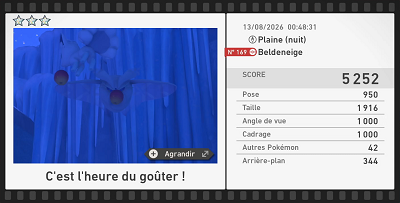
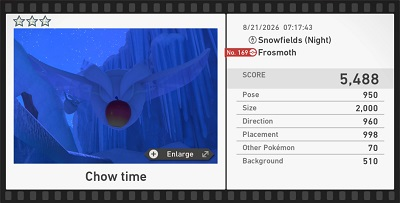
コアルヒー4の動画追加

diff --git a/src/data/pokemon/ducklett.ts b/src/data/pokemon/ducklett.ts
@@ -88,6 +88,11 @@ export default {
           },
           videos: [
             {
+              name: "かける",
+              score: "5603",
+              url: "https://www.youtube.com/watch?v=no3sCcaKp34",
+            },
+            {
               name: "Whom Snaps",
               score: "5593",
               url: "https://www.youtube.com/watch?v=YrrVmRUa-js",
@@ -95,9 +100,9 @@ export default {
           ],
           steps: [
             { type: "text", content: "道中をターボで進み、丘を越えると遠くに四本の細い木が見えるので、ポインタの位置が右から1番目と2番目の木の間あたりにきたらポーズバッファを開始し、ポインタが2番目と3番目あたりに到達するまで続ける。これにより飛行中のコアルヒーの角度が変化する。" },
-            { type: "text", content: "右ボタンで視点を変更したら、湖にある三角の岩の頂点とポインタの縦軸が重なったらターボをやめ、カメラを左上に移動させてからズームし、リンゴで奥のコアルヒーを右へ誘導する。" },
+            { type: "text", content: "右ボタンで視点を変更したら、湖にある岩とポインタの縦軸が重なったタイミングでターボをやめる。カメラを左上に移動させてからズームし、リンゴで奥のコアルヒー2匹を右へ誘導する。" },
             { type: "text", content: "巣の頂点にリンゴをぶつけてビッパを登場させ、さらに右上にリンゴを投げることで水中からコイキングを登場させる。これらで他のポケモン点を加算できる。" },
-            { type: "text", content: "橋に組み込まれている右に突き出た太い枝の上あたりにカメラをあわせ、枠内にコアルヒーの翼が完全に収まったあたりでズームアウトを開始。コアルヒーの顔がポインタに到達したら撮影する。" },
+            { type: "text", content: "橋に組み込まれている右に突き出た太い枝の上あたりにカメラをあわせ、コアルヒーやビッパを目安にしてズームアウトを開始。コアルヒーの顔がポインタに到達したら撮影する。" },
             { type: "text", content: "※高速で動いているため、本来の位置点が1Fぶんズレているので注意。" },
           ]
         }

diff --git a/src/data/pokemon/frosmoth.ts b/src/data/pokemon/frosmoth.ts
@@ -55,6 +55,26 @@ export default {
 
       3: [
         {
+          image: `/npshs/img/${no}/poke3b.png`,
+          info: {
+            area: "雪原(夜) Lv2",
+            pose: "固定(950)",
+            position: "胴",
+            friend: [""],
+            others: "モスノウ",
+          },
+          videos: [
+            {
+              name: "Quentin",
+              score: "5252",
+              url: "https://www.youtube.com/watch?v=h8yua0_ZdWQ",
+            },
+          ],
+          steps: [
+            { type: "text", content: "誰か書いて。" },
+          ]
+        },
+        {
           image: `/npshs/img/${no}/poke3a.png`,
           info: {
             area: "雪原(夜) Lv2",
@@ -74,26 +94,6 @@ export default {
             { type: "text", content: "誰か書いて。" },
           ]
         },
-        {
-          image: `/npshs/img/${no}/poke3b.png`,
-          info: {
-            area: "雪原(夜) Lv2",
-            pose: "固定(950)",
-            position: "胴",
-            friend: [""],
-            others: "ロコン",
-          },
-          videos: [
-            {
-              name: "Quentin",
-              score: "5252",
-              url: "https://www.youtube.com/watch?v=h8yua0_ZdWQ",
-            },
-          ],
-          steps: [
-            { type: "text", content: "誰か書いて。" },
-          ]
-        }
       ],
 
       4: [
